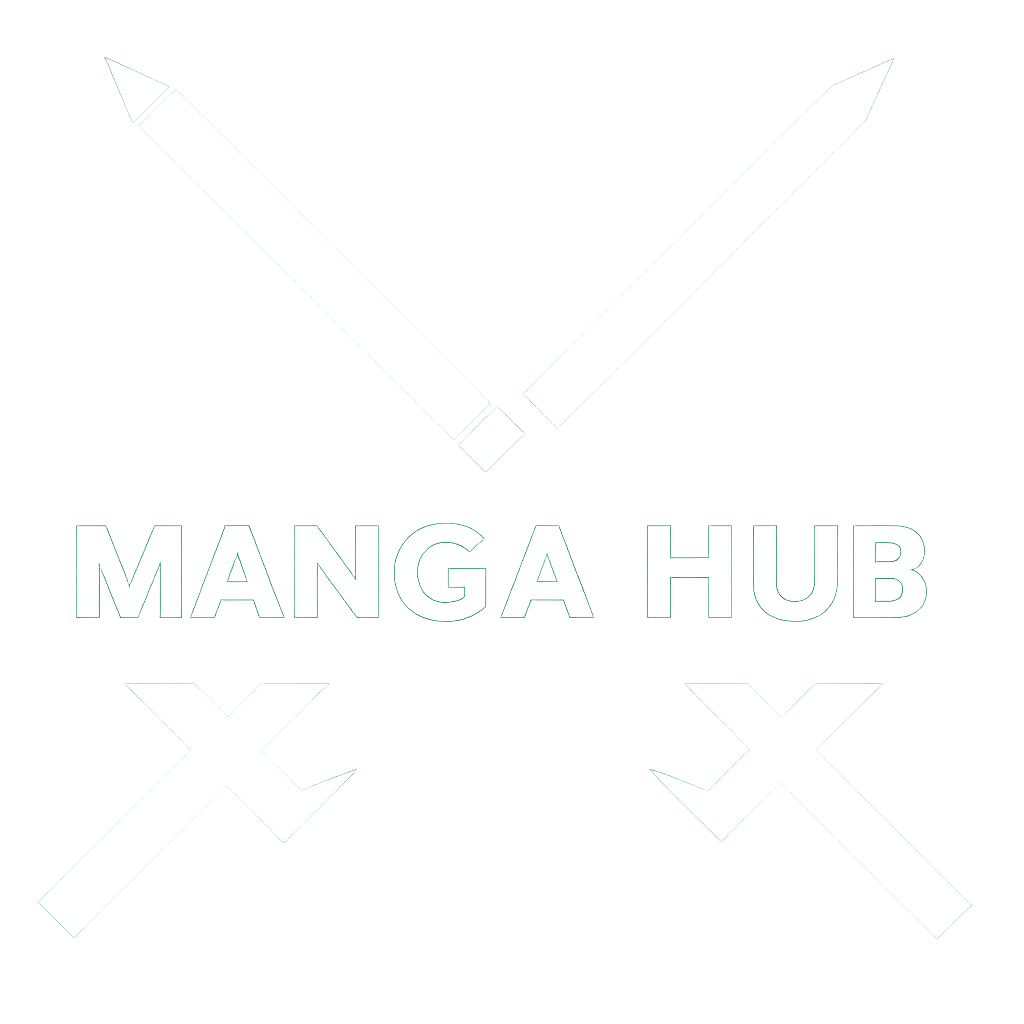
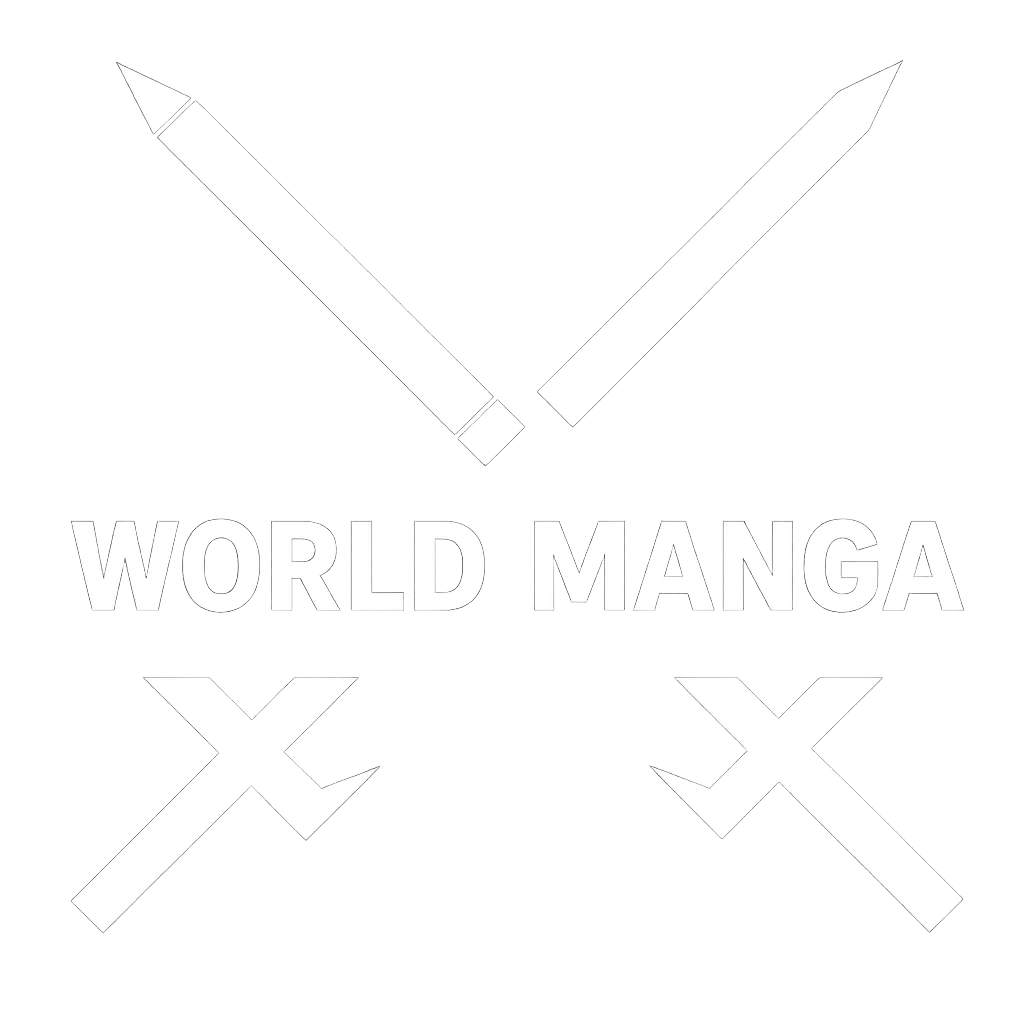
Update Docker Config

diff --git a/frontend/index.html b/frontend/index.html
@@ -1,10 +1,38 @@
-<!doctype html>
+<!DOCTYPE html>
 <html lang="en">
   <head>
     <meta charset="UTF-8" />
-    <link rel="icon" type="image/svg+xml" href="/icono.webp" />
+    <link rel="icon" type="image/svg+xml" href="%BASE_URL%icono.webp" />
     <meta name="viewport" content="width=device-width, initial-scale=1.0" />
-    <title>Manga Hub</title>
+    <!--Open Graph-->
+    <meta property="og:title" content="World Manga" />
+    <meta
+      property="og:description"
+      content="World Manga es una web en la que los usuarios pueden registrarse y compartir tomos de manga/manhwa de forma gratuita y sin anuncion, con un diseño moderno, vistoso, fondo dinamico y responsivo hecho con react, react router y el backend hecho en python, django y django rest framework"
+    />
+    <meta
+      property="og:url"
+      content="https://world-manga-production.up.railway.app/"
+    />
+    <meta
+      property="og:image"
+      content="https://world-manga-production.up.railway.app/static/icono.webp"
+    />
+    <meta property="og:image:alt" content="World Manga" />
+    <meta property="og:type" content="website" />
+    <meta property="og:site_name" content="World Manga" />
+    <meta property="og:locale" content="es_ES" />
+
+    <!--Twitter Card-->
+    <meta name="twitter:card" content="summary_large_image" />
+    <meta name="twitter:site" content="@Jansel_Roa" />
+    <meta name="twitter:creator" content="@Jansel_Roa" />
+    <meta name="twitter:title" content="World Manga" />
+    <meta name="twitter:description" content="World Manga es una web en la que los usuarios pueden registrarse y compartir tomos de manga/manhwa de forma gratuita y sin anuncion, con un diseño moderno, vistoso, fondo dinamico y responsivo hecho con react, react router y el backend hecho en python, django y django rest framework." />
+    <meta name="twitter:image" content="https://world-manga-production.up.railway.app/static/icono.webp" />
+    <meta name="twitter:image:alt" content="World Manga" />
+
+    <title>World Manga</title>
   </head>
   <body>
     <div id="root"></div>

diff --git a/frontend/src/components/Layout.tsx b/frontend/src/components/Layout.tsx
@@ -4,6 +4,7 @@ import { Menu, X, Search, Github } from "lucide-react";
 import { useUser } from "../context/UserContext";
 import { useSearch } from "../context/SearchContext";
 export default function Layout() {
+  const BASE = import.meta.env.BASE_URL;
   //Hooks
   const navigate = useNavigate();
   const location = useLocation();
@@ -33,7 +34,7 @@ export default function Layout() {
   useEffect(() => {
     for (let i = 1; i <= 18; i++) {
       const img = new Image();
-      img.src = `/backgrounds/background${i}.webp`;
+      img.src = `${BASE}backgrounds/background${i}.webp`;
     }
   }, []);
 
@@ -57,7 +58,7 @@ export default function Layout() {
         key={backgroundNumber}
         className="absolute inset-0 bg-cover bg-center transition-opacity duration-1000 ease-in-out"
         style={{
-          backgroundImage: `linear-gradient(to top left, rgba(0,0,0,0.4), rgba(17,24,39,0.3)), url(/backgrounds/background${backgroundNumber}.webp)`,
+          backgroundImage: `linear-gradient(to top left, rgba(0,0,0,0.4), rgba(17,24,39,0.3)), url(${BASE}backgrounds/background${backgroundNumber}.webp)`,
           opacity: show ? 1 : 0,
         }}
       />
@@ -66,7 +67,7 @@ export default function Layout() {
           <div className="max-w-7xl mx-auto px-4 sm:px-6 lg:px-8">
             <div className="flex justify-between items-center h-16">
               <Link to="/">
-                <img className="w-20 h-15 object-cover" src="/icono.webp" alt="World Manga" />
+                <img className="w-20 h-15 object-cover" src={`${BASE}icono.webp`} alt="World Manga" />
               </Link>
 
               <div className="flex items-center space-x-8 max-[940px]:space-x-4">

diff --git a/frontend/src/pages/Public.tsx b/frontend/src/pages/Public.tsx
@@ -4,6 +4,7 @@ import { useEffect, useState } from "react";
 import clsx from "clsx";
 
 export default function Share() {
+  const BASE = import.meta.env.BASE_URL;
   const [imageOne, setImageOne] = useState(1);
   const [imageTwo, setImageTwo] = useState(6);
   const [animatingOne, setAnimatingOne] = useState(false);
@@ -48,7 +49,7 @@ export default function Share() {
                 ? "opacity-0 translate-x-10"
                 : "opacity-100 translate-x-0"
             )}
-            src={`/wallpaper${imageOne}.webp`}
+            src={`${BASE}wallpaper${imageOne}.webp`}
             alt=""
           />
           <Link
@@ -68,7 +69,7 @@ export default function Share() {
                 ? "opacity-0 -translate-x-10"
                 : "opacity-100 translate-x-0"
             )}
-            src={`/ImageTomos/cover${imageTwo}.webp`}
+            src={`${BASE}ImageTomos/cover${imageTwo}.webp`}
             alt=""
           />
           <Link

diff --git a/frontend/src/pages/Signup.tsx b/frontend/src/pages/Signup.tsx
@@ -7,6 +7,7 @@ import { isAxiosError } from "axios";
 import { useUser } from "../context/UserContext";
 export default function Signup() {
   
+  const BASE = import.meta.env.BASE_URL;
   const navigate = useNavigate();
   const { refreshUser } = useUser();
   const [avatarPreview, setAvatarPreview] = useState<string | null>(null);
@@ -74,7 +75,7 @@ export default function Signup() {
       <div className="flex justify-center mb-6">
         <label className="relative group w-28 h-28 sm:w-32 sm:h-32 md:w-40 md:h-40 cursor-pointer rounded-full overflow-hidden shadow-md">
           <img
-            src={avatarPreview ? avatarPreview : "/default-avatar.webp"}
+            src={avatarPreview ? avatarPreview : (BASE+"default-avatar.webp")}
             alt="Foto de perfil"
             className="w-full h-full object-cover rounded-full transition duration-300"
           />
